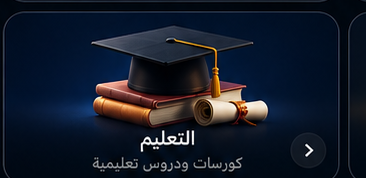
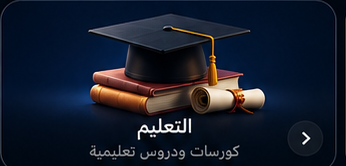
Recrop the section card photos to their own card bounds
The eleven section photos were cut out of a grid screenshot and carried
fragments of neighbouring cards (a strip of the card above, a sliver of
the card to the right), which read as a picture laid over another card.
Each is now cropped to its own printed frame; the srcs carry ?v=2 so
cached copies are replaced.

Claude-Session: https://claude.ai/code/session_01J9nouLDDGN3kdVK1cNW9nu

diff --git a/js/tool-card-images.js b/js/tool-card-images.js
@@ -9,17 +9,17 @@
     btnFashionAI: '/assets/tool-cards/fashion.png',
     btnStudioAI: '/assets/tool-cards/style.png',
     btnAdStudio: '/assets/tool-cards/ads.png',
-    btnStocks: '/assets/tool-cards/sections/stocks.png',
-    btnOmranTV: '/assets/tool-cards/sections/tv.png',
-    btnQibla: '/assets/tool-cards/sections/qibla.png',
-    btnExpense: '/assets/tool-cards/sections/expense.png',
-    btnOmranEdu: '/assets/tool-cards/sections/education.png',
-    btnConstruction: '/assets/tool-cards/sections/construction.png',
-    btnReligion: '/assets/tool-cards/sections/religion.png',
-    btnCV: '/assets/tool-cards/sections/cv.png',
-    btnDocs: '/assets/tool-cards/sections/docs.png',
-    btnFeedback: '/assets/tool-cards/sections/feedback.png',
-    btnEmailAssist: '/assets/tool-cards/sections/email.png'
+    btnStocks: '/assets/tool-cards/sections/stocks.png?v=2',
+    btnOmranTV: '/assets/tool-cards/sections/tv.png?v=2',
+    btnQibla: '/assets/tool-cards/sections/qibla.png?v=2',
+    btnExpense: '/assets/tool-cards/sections/expense.png?v=2',
+    btnOmranEdu: '/assets/tool-cards/sections/education.png?v=2',
+    btnConstruction: '/assets/tool-cards/sections/construction.png?v=2',
+    btnReligion: '/assets/tool-cards/sections/religion.png?v=2',
+    btnCV: '/assets/tool-cards/sections/cv.png?v=2',
+    btnDocs: '/assets/tool-cards/sections/docs.png?v=2',
+    btnFeedback: '/assets/tool-cards/sections/feedback.png?v=2',
+    btnEmailAssist: '/assets/tool-cards/sections/email.png?v=2'
   };
 
   function upgradeButton(id, src){

diff --git a/js/ui-wiring.js b/js/ui-wiring.js
@@ -208,7 +208,7 @@ try{ sessionStorage.removeItem('omranBootRetry'); }catch(e){ /* guard-ok: بلا
   }
   if(!document.querySelector('script[data-omran-tool-photos]')){
     var js = document.createElement('script');
-    js.src = '/js/tool-card-images.js?v=2';
+    js.src = '/js/tool-card-images.js?v=3';
     js.async = false;
     js.setAttribute('data-omran-tool-photos', '');
     document.head.appendChild(js);
